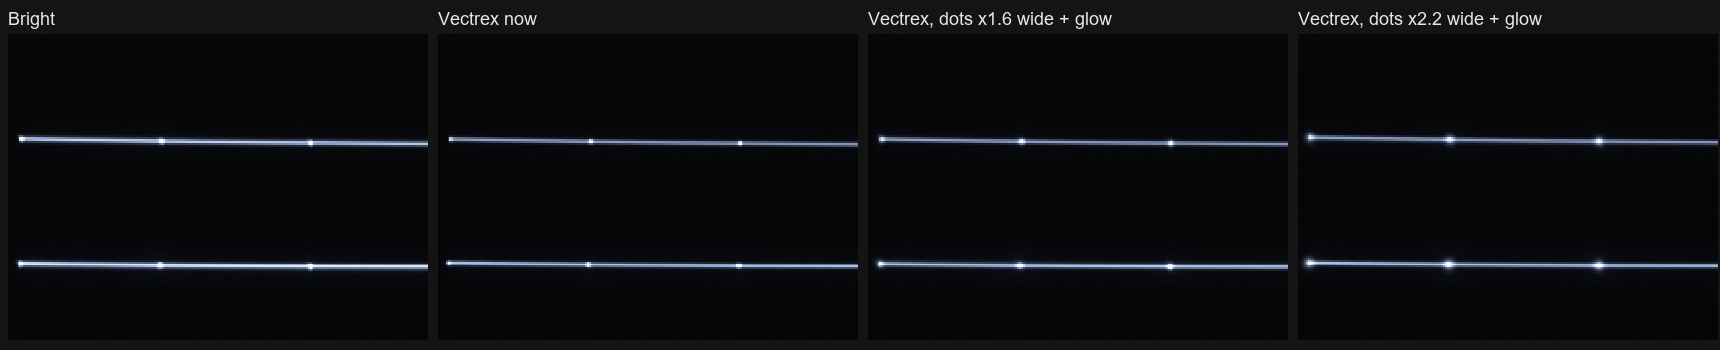
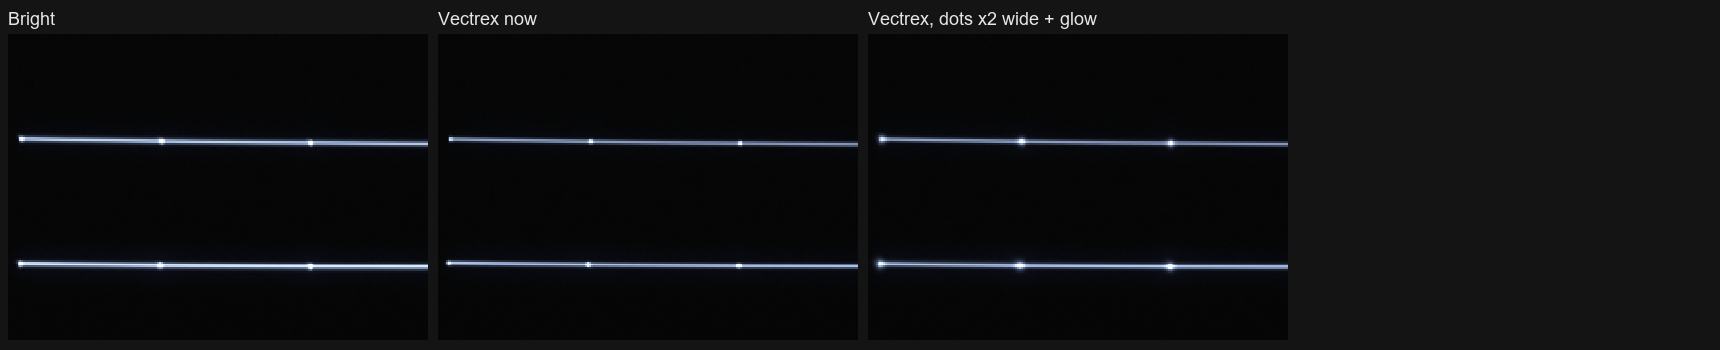
The glass's glow: pieces along one straight line within a unit drawn as one (spots with spots) - the picture the same within 1/255; Optimize measures the first picture as it will be drawn; the CPU's fallback at the picture's scale; VX_HDRPEAK (a test)

diff --git a/libretro/gpu_phos.c b/libretro/gpu_phos.c
@@ -384,12 +384,25 @@ static int ph_frame (int npl, double dt, int glow, int after, int shot)
 		 * glow's size (so smooth a light needs no more; at the picture's size it was most of the lines' cost), read into the light below */
 		const float hx = (float) ph_gw / FW, hy = (float) ph_gh / FH, hm = 0.5f * (hx + hy), hf = (float) (BT_HALO_F / (1.0 - BT_HALO_F));
 		if ((size_t) npl * 24 > ph_hbufn) { free (ph_hbuf); ph_hbufn = (size_t) npl * 24 + 4096; ph_hbuf = malloc (ph_hbufn * sizeof (float)); }
-		int nh_ = 0;
-		for (int k = 0; k < npl; k++) { const pline *q = &pl[k]; if (!(q->hx > 0)) continue; float *o = ph_hbuf + (size_t) nh_++ * 24; const float ox = (float) (q->to * EW);
-			float sh = q->hx * hm; const float f = (q->k2 / q->hx) * (q->k2 / q->hx) * hf * (sh < 0.5f ? (sh / 0.5f) * (sh / 0.5f) : 1.0f); if (sh < 0.5f) sh = 0.5f;
-			o[0] = o[4] = (q->ax + ox) * hx; o[1] = o[5] = q->ay * hy; o[2] = o[6] = (q->bx + ox) * hx; o[3] = o[7] = q->by * hy;
-			for (int i = 8; i < 16; i++) o[i] = 0;
-			o[16] = 3.5f * sh + 1.0f; o[17] = q->r * f; o[18] = q->g * f; o[19] = q->b * f; o[20] = sh; o[21] = o[22] = o[23] = 0; }
+		/* (pieces that follow each other along one straight line - a line's ends and middle, its caps, the tube's segments - as one
+		 *  piece with their light together: over the glow's width, 2.5 units, where along half a unit the light sat shows nothing - a
+		 *  third of the glow's pieces to draw, its caps and ends together, a short dash one piece - within one unit) */
+		int nh_ = 0, mh = 0; float ma[2] = { 0, 0 }, mb[2] = { 0, 0 }, mc[3] = { 0, 0, 0 }, ms = 0, ml = 0, md[2] = { 0, 0 }; int mt = 0;
+		for (int k = 0; k <= npl; k++) { const pline *q = k < npl ? &pl[k] : NULL; if (q && !(q->hx > 0)) continue;
+			float len = 0, dx = 0, dy = 0, f = 0; int join = 0;
+			if (q) { dx = q->bx - q->ax; dy = q->by - q->ay; len = sqrtf (dx * dx + dy * dy); if (len > 1e-3f) { dx /= len; dy /= len; }
+				f = (q->k2 / q->hx) * (q->k2 / q->hx) * hf;
+				join = mh && q->to == mt && q->hx == ms && fabsf (q->ax - mb[0]) < 0.75f && fabsf (q->ay - mb[1]) < 0.75f && ml + len < 0.4f * ms
+				       && ((len <= 1e-3f && ml <= 1e-3f) || (len > 1e-3f && ml > 1e-3f && dx * md[0] + dy * md[1] > 0.995f)); }   /* (a spot's glow fades out from it, a line's is a Gaussian: spots with spots, moving pieces with moving ones) */
+			if (join) { if (len > 1e-3f) { if (ml <= 1e-3f) { md[0] = dx; md[1] = dy; } mb[0] = q->bx; mb[1] = q->by; ml += len; }
+				mc[0] += q->r * f; mc[1] += q->g * f; mc[2] += q->b * f; continue; }
+			if (mh) { float *o = ph_hbuf + (size_t) nh_++ * 24; const float ox = (float) (mt * EW);
+				float sh = ms * hm; const float c = sh < 0.5f ? (sh / 0.5f) * (sh / 0.5f) : 1.0f; if (sh < 0.5f) sh = 0.5f;
+				o[0] = o[4] = (ma[0] + ox) * hx; o[1] = o[5] = ma[1] * hy; o[2] = o[6] = (mb[0] + ox) * hx; o[3] = o[7] = mb[1] * hy;
+				for (int i = 8; i < 16; i++) o[i] = 0;
+				o[16] = 3.5f * sh + 1.0f; o[17] = mc[0] * c; o[18] = mc[1] * c; o[19] = mc[2] * c; o[20] = sh; o[21] = o[22] = o[23] = 0; mh = 0; }
+			if (q) { mh = 1; mt = q->to; ms = q->hx; ma[0] = q->ax; ma[1] = q->ay; mb[0] = q->bx; mb[1] = q->by; ml = len; md[0] = dx; md[1] = dy;
+				mc[0] = q->r * f; mc[1] = q->g * f; mc[2] = q->b * f; } }
 		ph_target (ph_H, 0, 0, ph_gw, ph_gh); glClearColor_ (0, 0, 0, 0); glClear_ (GL_COLOR_BUFFER_BIT);
 		if (nh_) {
 			glEnable_ (GL_BLEND); glBlendFunc_ (GL_ONE, GL_ONE);

diff --git a/libretro/gpu_opt.c b/libretro/gpu_opt.c
@@ -46,7 +46,7 @@ static int opt_scene (wline *L, int max)
 static double opt_time (const prow *v, wline *sc, int n, int frames)
 {
 	extern double vt_wall (void);
-	fx_force = v; fx_apply ();
+	fx_force = v; fx_apply (); bt_gpu = vx_beam && bt_gpu_ok ();   /* (the first picture: measured as it will be drawn) */
 	const double dt = 1.0 / opt_rate; double t0 = 0;
 	gpu_novideo = 1;
 	double tw = vt_wall ();
